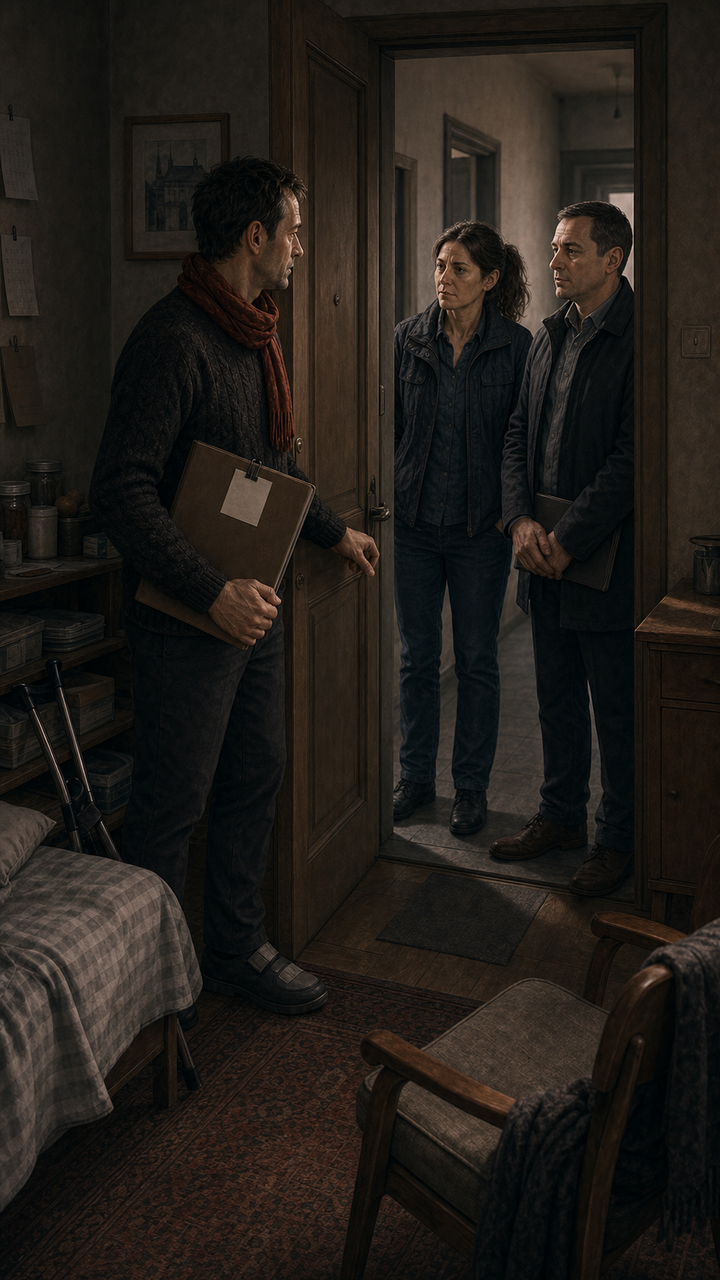
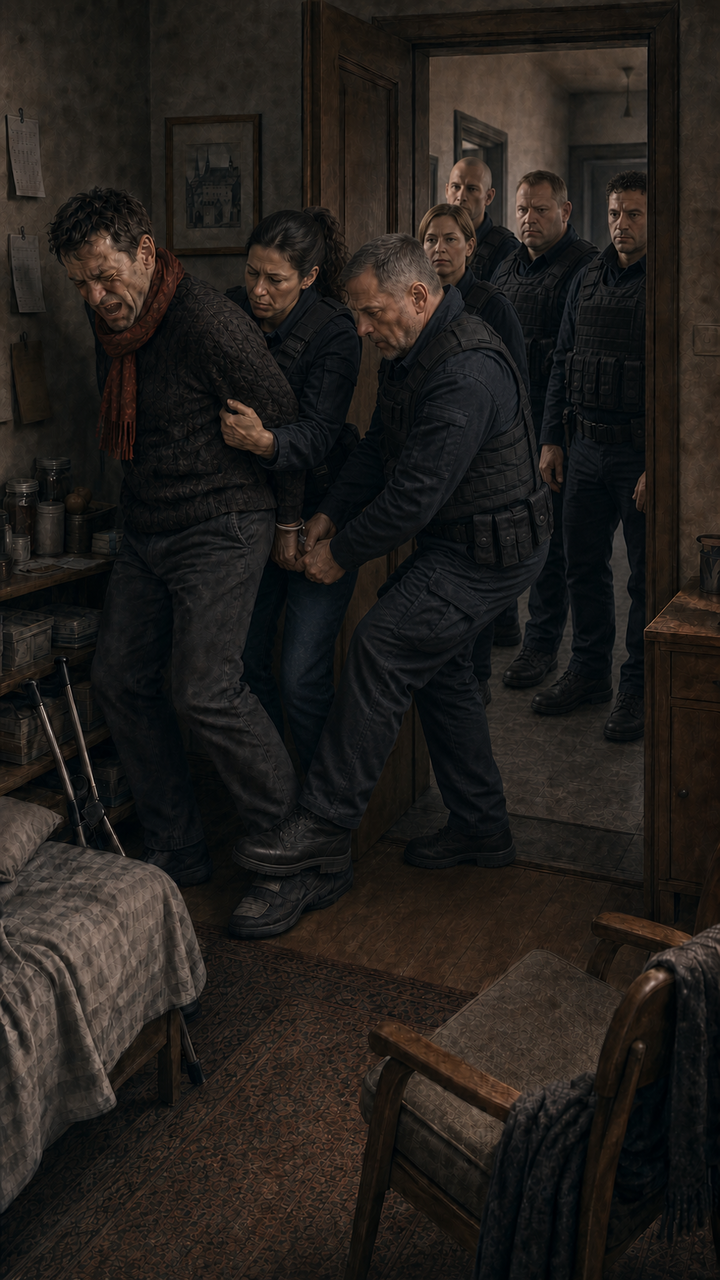
promt fix

diff --git a/guides/story/trilogy/02-the-system-between-us/production/ALT_POLICY_CLOSING.html b/guides/story/trilogy/02-the-system-between-us/production/ALT_POLICY_CLOSING.html
@@ -1,0 +1,15 @@
+<!doctype html>
+<html lang="en">
+<head>
+  <meta charset="utf-8">
+  <meta name="viewport" content="width=720, initial-scale=1">
+  <title>MyScoutee Part II — alternative policy closing frame</title>
+  <style>
+    html, body { width: 720px; height: 1280px; margin: 0; overflow: hidden; background: #071522; }
+    img { display: block; width: 720px; height: 1280px; }
+  </style>
+</head>
+<body>
+  <img src="../assets/frames/M2_CP17_CLOSING.png" alt="Alternative policy closing frame">
+</body>
+</html>

diff --git a/guides/story/trilogy/02-the-system-between-us/production/CP17_INTERCOM.html b/guides/story/trilogy/02-the-system-between-us/production/CP17_INTERCOM.html
@@ -1,0 +1,15 @@
+<!doctype html>
+<html lang="en">
+<head>
+  <meta charset="utf-8">
+  <meta name="viewport" content="width=720, initial-scale=1">
+  <title>MyScoutee Part II — CP17 intercom frame</title>
+  <style>
+    html, body { width: 720px; height: 1280px; margin: 0; overflow: hidden; background: #071522; }
+    img { display: block; width: 720px; height: 1280px; }
+  </style>
+</head>
+<body>
+  <img src="../assets/frames/M2_CP17.png" alt="CP17 intercom frame">
+</body>
+</html>

diff --git a/guides/story/trilogy/02-the-system-between-us/storyboard/STORYBOARD.md b/guides/story/trilogy/02-the-system-between-us/storyboard/STORYBOARD.md
@@ -172,18 +172,21 @@ Narration and stabilized editable titles come from [SCRIPT.md](../film/SCRIPT.md
 - **CP16:** Founder alone, leg elevated, special shoe nearby, daily injection
   supplies and stored food visible, empty chair held in quiet focus.
 
-### S17 — The wound reaches the portal · 02:16–02:24 · CP16→CP17
+### S17 — The bell will not stop · 02:16–02:24 · CP16→CP17
 
-- **Motion:** a new call enters the silent room; the Founder photographs the
-  closed incision and attaches it to an anonymized portal message.
-- **CP17:** clinical, non-gory wound image on the screen and a dry half-smile at
-  his own obscene metaphor; never visualize a kick or violent act.
+- **Motion:** an insistent doorbell reaches the post-operative room. The Founder
+  lowers the operated left foot, gets upright and hobbles to the entrance. At
+  the wall-mounted handset beside the door, the caller says only “Postás.” He
+  presses the release button and hears the ground-floor electric lock open.
+- **CP17:** chest-up intercom moment at the closed apartment door, handset at
+  the ear and finger on the release button; no leg or wound appears.
 
 ### S18 — The knock · 02:24–02:32 · CP17→CP18
 
-- **Motion:** the portal notification becomes a doorbell almost one year later.
-  It rings for a long time. The visitors present themselves as postal workers;
-  when the Founder opens the door, they reveal themselves as police.
+- **Motion:** the ground-floor release echoes away and footsteps climb through
+  the building. The Founder moves from the intercom to his apartment door. The
+  visitors maintain the postal-worker presentation; when he opens the door,
+  they reveal themselves as police.
 - **CP18:** the existing doorstep moment immediately before the entry, held
   only long enough for the deception to register.
 
@@ -386,7 +389,7 @@ Narration and stabilized editable titles come from [SCRIPT.md](../film/SCRIPT.md
 | `M2_CP14.png` | direct-notice and correction process proposal | S14–S15 |
 | `M2_CP15.png` | disputed line and immediate correction in evidence | S15–S16 |
 | `M2_CP16.png` | solitary post-operative room | S16–S17 |
-| `M2_CP17.png` | closed-incision attachment and black humour | S17–S18 |
+| `M2_CP17.png` | intercom handset and ground-floor door release | S17–S18 |
 | `M2_CP18.png` | doorstep immediately before the police entry | S18–S18A |
 | `M2_CP18A.png` | rushed, cuffed and injured inside his own doorway | S18A–S19 |
 | `M2_CP19.png` | ordinary interview room, devices and counsel | S19–S20 |

diff --git a/guides/story/trilogy/02-the-system-between-us/production/TODO.md b/guides/story/trilogy/02-the-system-between-us/production/TODO.md
@@ -7,6 +7,20 @@ audit. Frame production begins from this synchronized package; any later
 external critical-AI feedback becomes a new editorial decision rather than a
 gate on this publication.**
 
+## Active alternative public cut
+
+- [ ] Generate the canonical S17 interval from `M2_CP16.png` to
+  `M2_CP17.png`: persistent doorbell, difficult walk to the intercom, “Postás”
+  and the remote door release.
+- [ ] Generate the [alternative closing](../prompts/flow/ALT_CLOSING.txt) from
+  `M2_CP17.png` to the separate `M2_CP17_CLOSING.png` endpoint and append it
+  instead of S18 onward. The small policy/book overlay appears only during the
+  final two seconds; there is no brand copy. The temporary cut ends at `02:32`.
+- [x] Preserve the complete S16–S38 package and the real CP38→E01
+  `TO BE CONTINUED` closing for the later full Part II cut and Part III bridge.
+- [x] Keep the early card free of `TO BE CONTINUED`; that phrase belongs only
+  to the actual complete ending after S38.
+
 ## Immediate production exceptions — S16, S17 and S18A
 
 - [ ] **Generate S16 outside Google Flow.** Flow repeatedly rejected the motion
@@ -14,11 +28,11 @@ gate on this publication.**
   images. Submit the original full [S16 prompt](../prompts/flow/S16.txt) with
   `M2_CP15.png` and `M2_CP16.png` to another frames-to-video generator. Do not
   replace or simplify the saved story prompt.
-- [ ] **Generate S17 outside Google Flow.** Its required closed-incision image
-  is likely to trigger the same policy gate. Use the corrected `M2_CP17.png`,
-  which keeps both legs visible and preserves the operated left leg, with the
-  full [S17 prompt](../prompts/flow/S17.txt). Do not spend Flow attempts on a
-  medically neutral rewrite that removes the scene's meaning.
+- [ ] **Generate S17 outside Google Flow.** Its first endpoint is the rejected
+  post-operative `M2_CP16.png`. Use it with the canonical intercom
+  `M2_CP17.png` and the full [S17 prompt](../prompts/flow/S17.txt). The film
+  retains the wound and black humour in narration rather than another medical
+  close-up.
 - [ ] **Generate S18A outside Google Flow.** The required home entry,
   restraint, handcuffs and pressure on the operated foot are the scene itself,
   so a neutral rewrite would falsify the event. Use the existing full

diff --git a/guides/story/trilogy/02-the-system-between-us/film/ALTERNATE_EARLY_CLOSING.md b/guides/story/trilogy/02-the-system-between-us/film/ALTERNATE_EARLY_CLOSING.md
@@ -1,0 +1,35 @@
+# Alternative early closing
+
+This is the active time-limited public cut while the full Part II motion chain
+remains unfinished.
+
+The alternative cut branches after S17, at `02:24`, and replaces S18 onward
+with one eight-second closing interval:
+
+```text
+M2_CP16.png -> M2_CP17.png -> M2_CP17_CLOSING.png
+```
+
+`M2_CP17.png` is the canonical intercom endpoint after the post-operative
+`M2_CP16.png`; it is not an alternative frame. Only `M2_CP17_CLOSING.png` is the
+alternative policy/book endpoint. The temporary cut ends at `02:32`.
+
+The closing does not summarize or sanitize the omitted story. It breaks inside
+the next event. While the Founder is at home, the doorbell rings forcefully and
+does not stop. He takes the wall-mounted handset beside the front door. The
+caller identifies himself only as “Postás.” The Founder presses the release
+button, and the electric opening sound of the ground-floor door comes back up
+through the building. No words describe this action on screen.
+
+During the final two seconds, a small two-line overlay appears over the still
+moving scene. There is no logo, emblem, brand name or other brand copy:
+
+> WHAT CAME NEXT TRIGGERED A VIDEO AI POLICY RESTRICTION.  
+> THE BOOK TELLS THE REST.
+
+The alternative card deliberately does not say `TO BE CONTINUED`. That line is
+reserved for the complete Part II ending after S38, where `M2_CP38.png` flows
+into `M2_E01.png` and opens Part III.
+
+The full S16–S38 prompt and frame package remains in the repository. Nothing is
+deleted or rewritten to manufacture the shorter ending.

diff --git a/guides/story/trilogy/02-the-system-between-us/film/FILM.md b/guides/story/trilogy/02-the-system-between-us/film/FILM.md
@@ -5,11 +5,17 @@ Working title: **The System Between Us**.
 Status: **written-locked 05:20 English script; the 38-interval storyboard and
 prompt package are synchronized; no production media generated yet**.
 
+Time-limited public alternative: after the canonical S17 endpoint, use
+`M2_CP17.png→M2_CP17_CLOSING.png` and end at `02:32`.
+The complete S16–S38 cut remains preserved. Its real ending is still
+`M2_CP38.png→M2_E01.png`, with `TO BE CONTINUED` opening the Part III bridge.
+
 - [creative bible](CREATIVE_BIBLE.md)
 - [time-coded script](SCRIPT.md)
 - [Part II / Part III boundary](STANDALONE_FILM_AND_PART_III_BRIDGE.md)
 - [storyboard](../storyboard/STORYBOARD.md)
 - [prompt pack](../prompts/PROMPT_PACK.md)
+- [alternative early closing](ALTERNATE_EARLY_CLOSING.md)
 
 The film is built from thirty-eight exact eight-second scene intervals framed
 by two deterministic eight-second cards. This makes every motion interval compatible with the

diff --git a/guides/story/trilogy/02-the-system-between-us/film/SCRIPT.md b/guides/story/trilogy/02-the-system-between-us/film/SCRIPT.md
@@ -92,13 +92,13 @@ viewer time to read and consider the premise.
 
 > The public answer was a shoe: come back in a year. The private clinic laughed. I borrowed for surgery and spent three months in bed.
 
-### 02:16–02:24 — S17 · The wound reaches the portal
+### 02:16–02:24 — S17 · The bell will not stop
 
-> A new call reached the room. I sent the wound itself and wrapped helplessness in an obscene joke.
+> I sent the wound itself and wrapped helplessness in an obscene joke. Almost a year later, the bell would not stop.
 
 ### 02:24–02:32 — S18 · The knock
 
-> The bell kept ringing. They said they were from the post. I opened the door to let ordinary life in.
+> I hobbled to the intercom. “Postás.” I released the downstairs door, then opened my own to let ordinary life in.
 
 ### 02:32–02:40 — S18A · The rush
 

diff --git a/guides/story/trilogy/02-the-system-between-us/production/README.md b/guides/story/trilogy/02-the-system-between-us/production/README.md
@@ -15,8 +15,8 @@ in a separate phase; audio remains downstream.
 - [SHOT_MANIFEST.csv](tracking/SHOT_MANIFEST.csv) tracks the locked P00,
   S01–S38 and E01 production units.
 
-The next visual task is direct Veo 3.1 Lite production: choose the next
-interval, generate its two exact 9:16
-endpoints, then use the same pair and prompt for one eight-second result in
-Google Flow.
+The active short-cut branches from the canonical intercom endpoint through
+`M2_CP17.png→M2_CP17_CLOSING.png`. Only the second frame is alternative, and it
+contains no brand copy. The full S16–S38 motion package and the final
+`M2_CP38.png→M2_E01.png` Part III bridge remain preserved for later production.
 There is no slideshow or animatic stage.

diff --git a/guides/story/trilogy/02-the-system-between-us/storyboard/CHECKPOINT_CHAIN.md b/guides/story/trilogy/02-the-system-between-us/storyboard/CHECKPOINT_CHAIN.md
@@ -9,6 +9,18 @@ P00 -> CP00 -> ... -> CP18 -> CP18A -> CP19 -> ... -> CP38 -> E01
 opening              thirty-nine story intervals             closing breath
 ```
 
+Temporary public alternative:
+
+```text
+P00 -> CP00 -> ... -> CP16 -> CP17 -> CP17_CLOSING
+                              intercom   policy/book handoff
+```
+
+CP17 is the canonical intercom endpoint after CP16, not an alternative frame.
+The alternative branches after CP17 into the separate CP17_CLOSING endpoint. It
+does not replace the preserved full chain or its CP38→E01 `TO BE CONTINUED`
+ending.
+
 Rules:
 
 - Canonical generated endpoints live only in `assets/frames/`.
